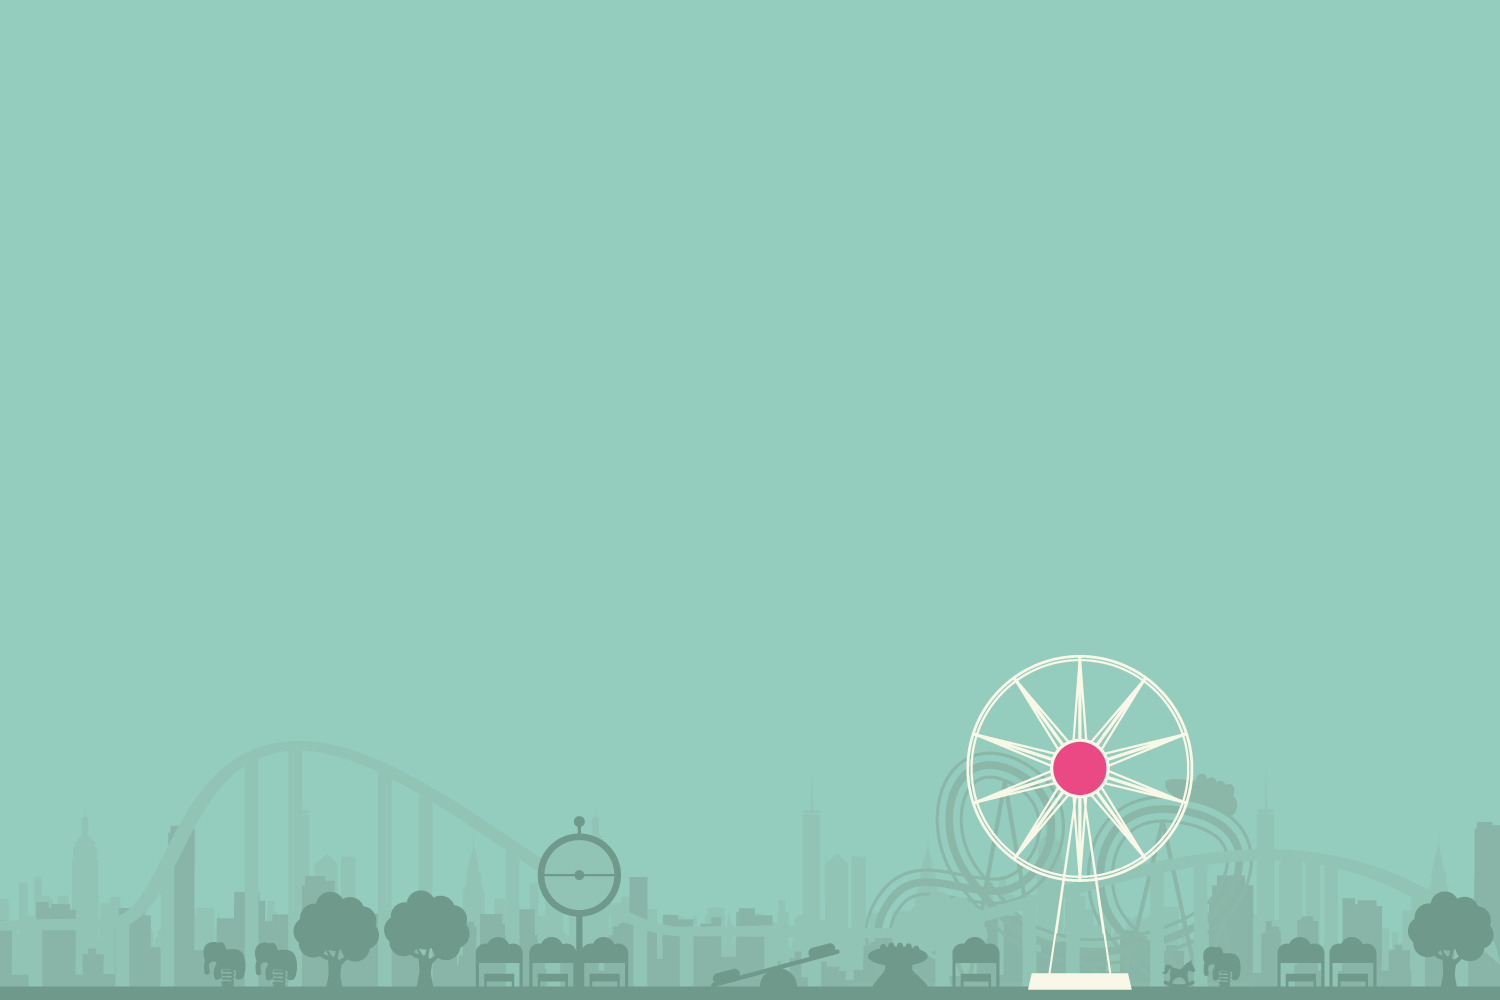
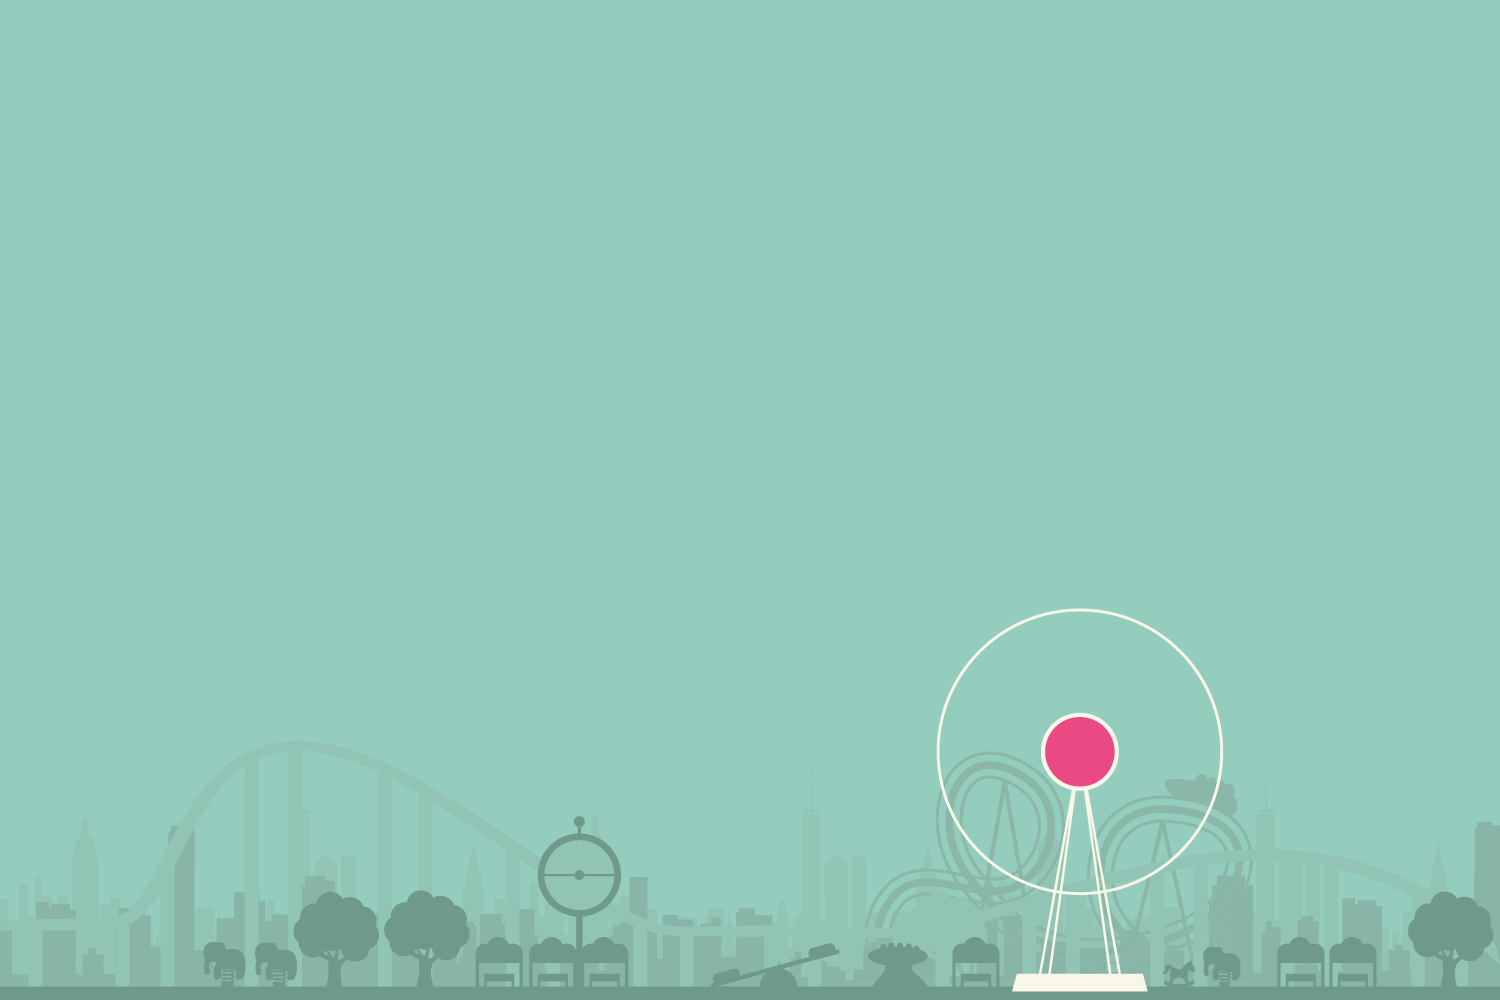
wefwe

Changed region(s): [[0.644, 0.651, 0.7973, 0.899], [0.6747, 0.961, 0.7667, 0.992], [0.7053, 0.589, 0.736, 0.62]]

diff --git a/sketch.js b/sketch.js
@@ -29,6 +29,10 @@ function draw() {
 		image(wheel3,1055+sin(t1*2*PI+2*PI/5*i)*100-10,750+cos(t1*2*PI+2*PI/5*i)*100-5,53,50);
 	}
 
+	for(var i = 0 ; i < 5 ;i++){
+		image(wheel,1055+sin(t1*2*PI+2*PI/5*i)*100-10,750+cos(t1*2*PI+2*PI/5*i)*100-5,53,50);
+	}
+
 	 var tf = (new Date()%1000)/1000;
 
 
